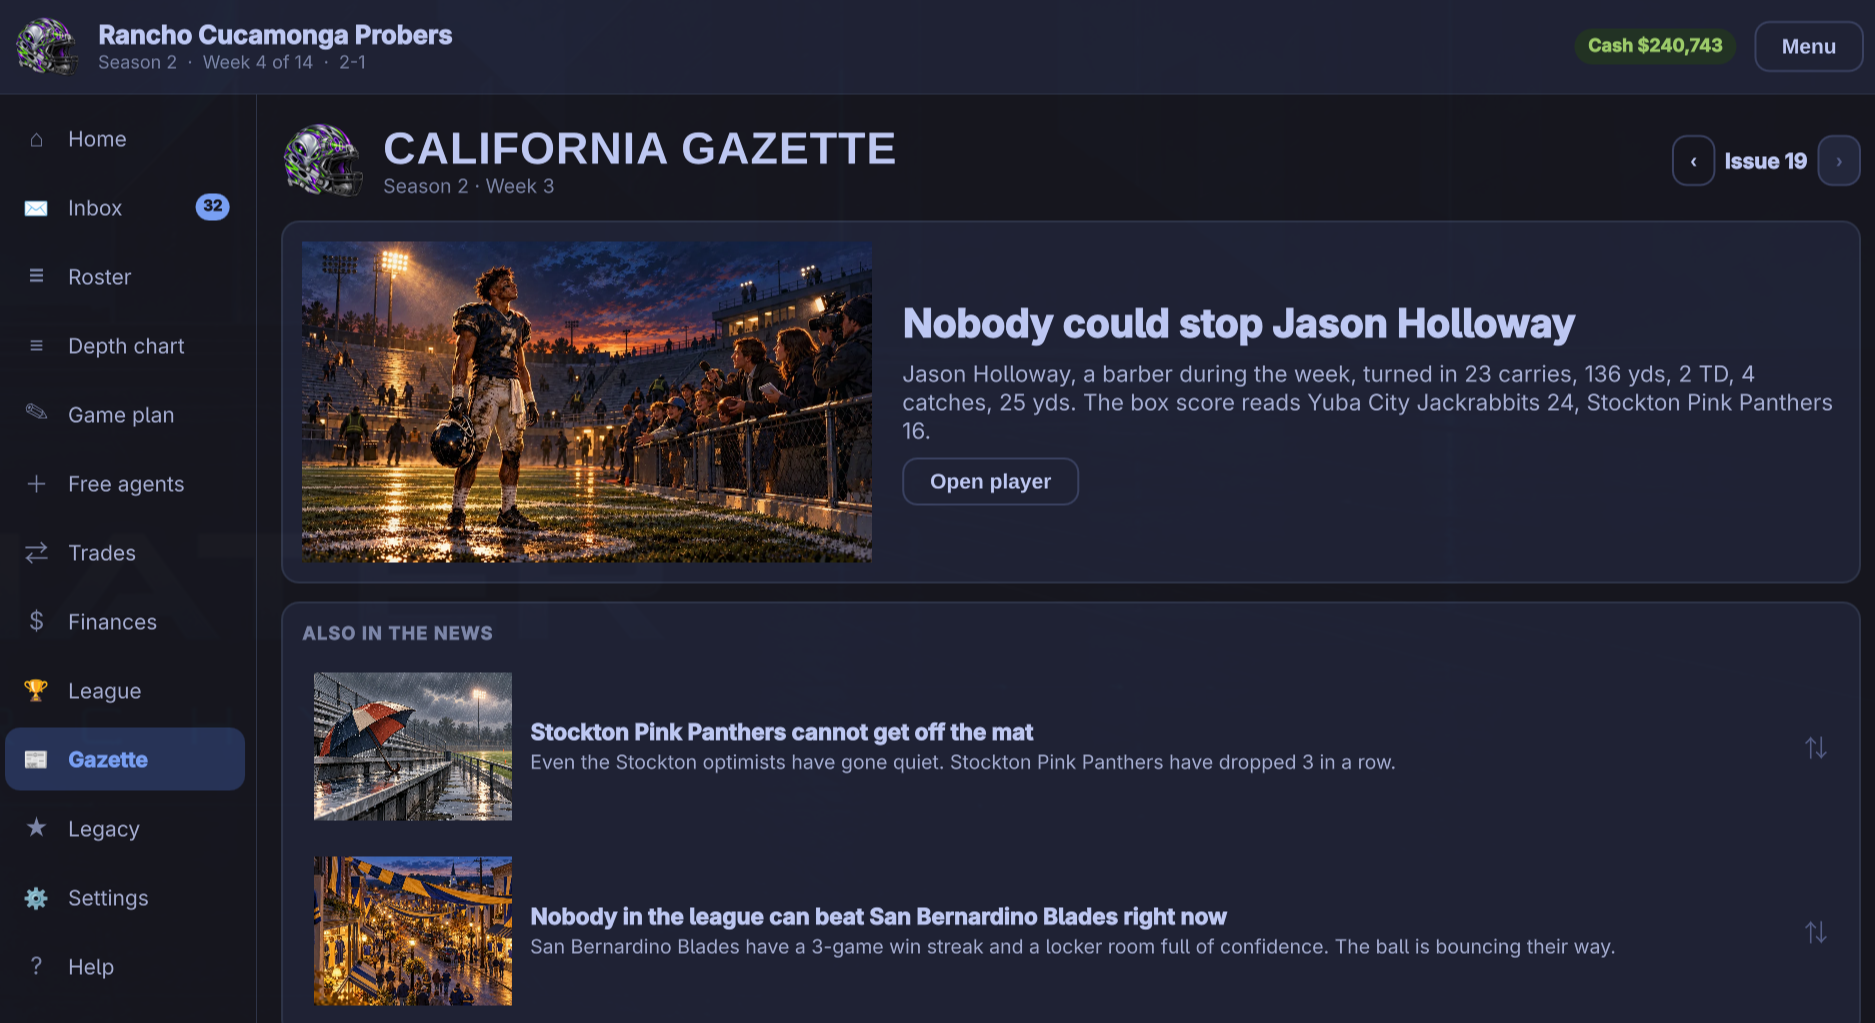
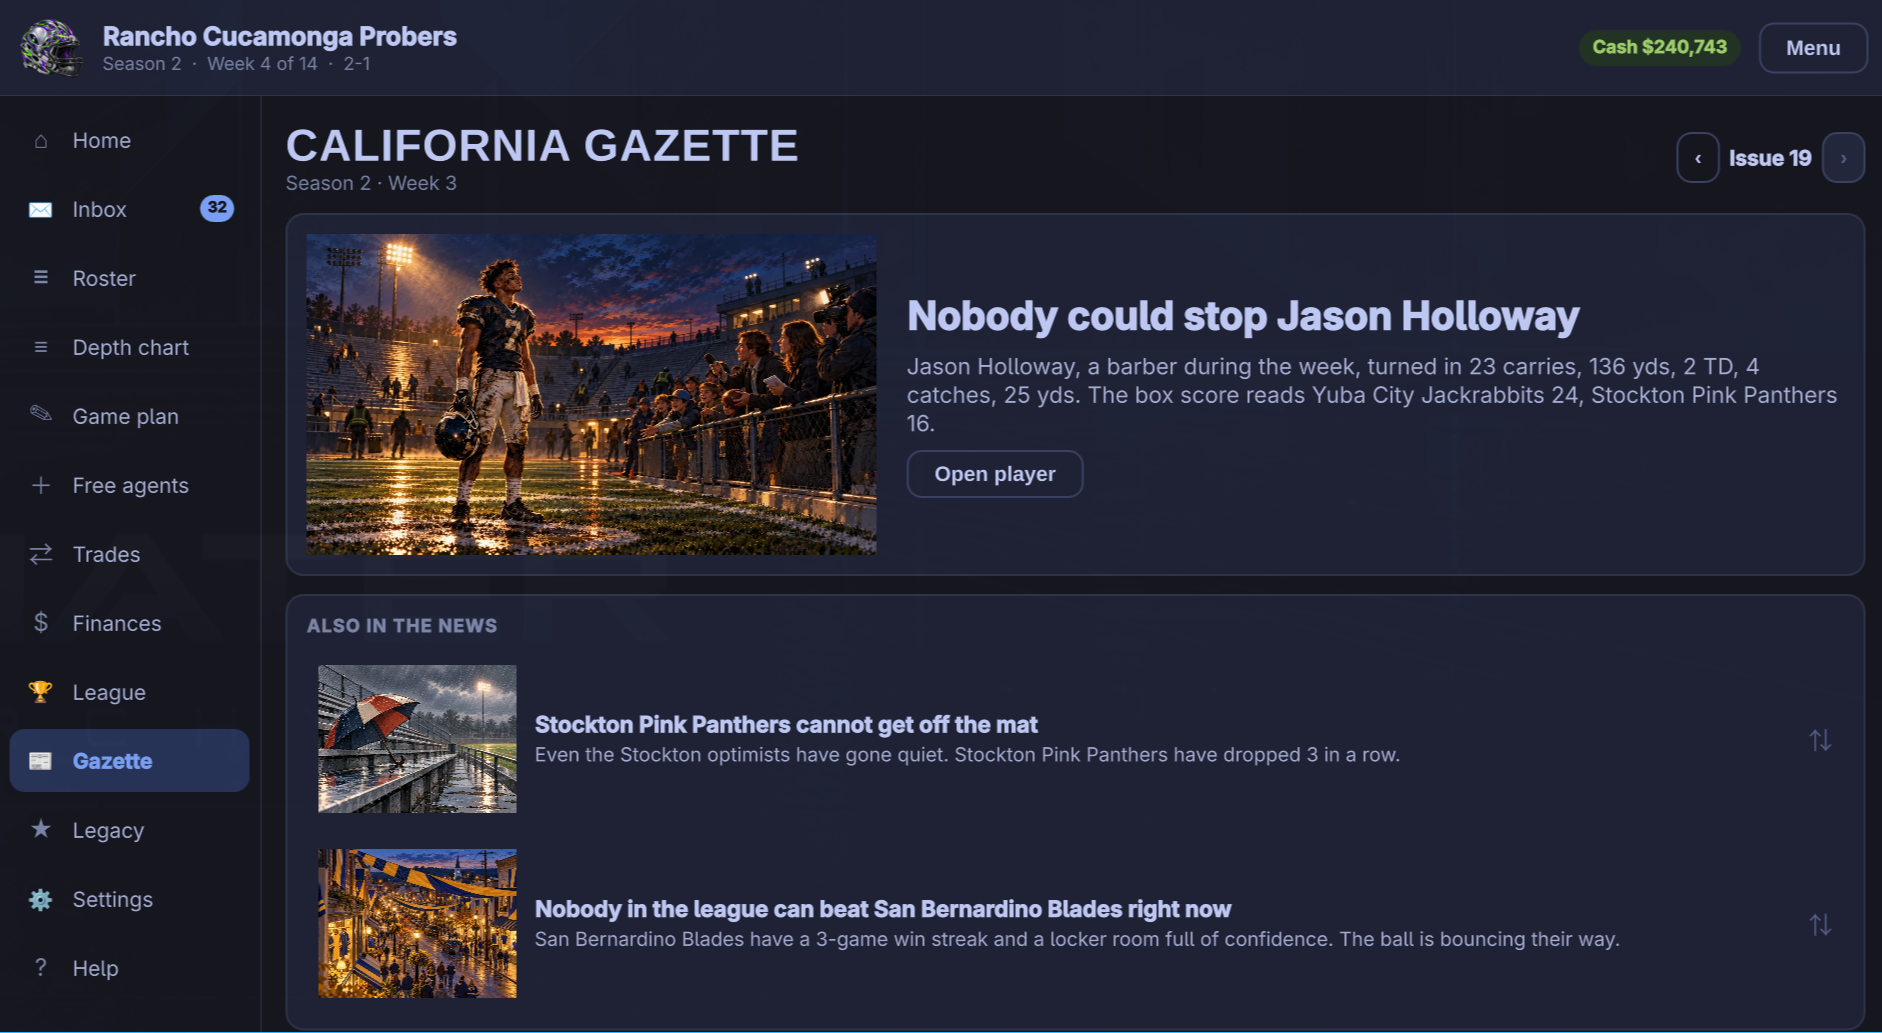
Gazette heading without the team helmet; refresh Gazette screenshot, add League screenshot

diff --git a/app/qml/NewsScreen.qml b/app/qml/NewsScreen.qml
@@ -56,7 +56,6 @@ Item {
             RowLayout {
                 Layout.fillWidth: true
                 spacing: 12
-                Helmet { slug: root.vm.helmet || ""; size: 56 }
                 ColumnLayout {
                     spacing: 0
                     ScreenTitle { text: (root.vm.region || "") + " Gazette" }

diff --git a/README.md b/README.md
@@ -12,6 +12,10 @@ This is the native Linux version, written in **Rust** with a **Qt 6 / QML** inte
 
 *The weekly Gazette covers the league, and the sidebar gets you to everything else.*
 
+![League standings and recent results](docs/league.png)
+
+*League standings by division, with recent results from around the league.*
+
 ## Features
 
 - Pick a state (California, Texas, Florida or Pennsylvania) and a town from a dealt league of 12 clubs in 3 divisions, with a map of where everyone is
